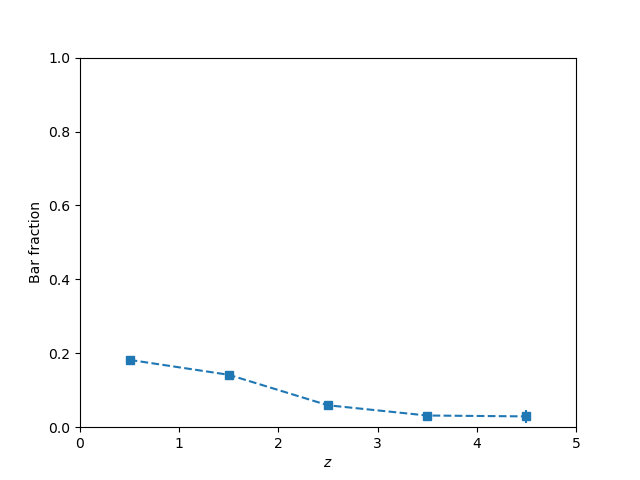
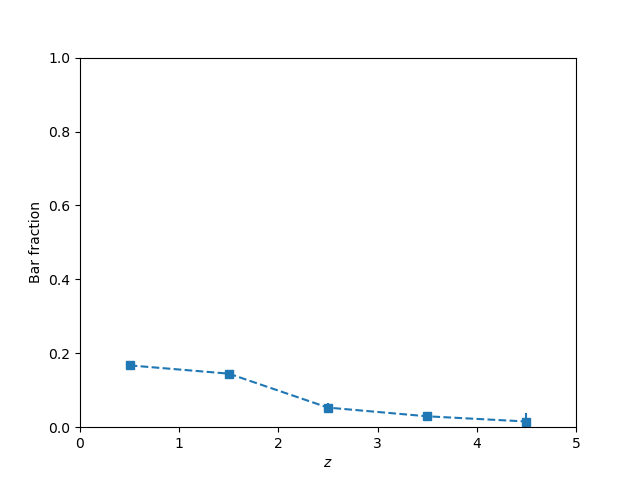
update

Changed region(s): [[0.4375, 0.8125, 0.8438, 0.9062], [0.1875, 0.7188, 0.4062, 0.8125]]

diff --git a/bar_estimate/binned_bar_fraction.py b/bar_estimate/binned_bar_fraction.py
@@ -30,73 +30,172 @@ bar_count = result['bar_count'].values
 
 z50 = result['zfit_50'].values
 M50 = result['logM_50'].values
+q = result['q'].values
 
-num_disks = np.zeros((N_BINS_z, N_RUNS))
-num_barred_disks = np.zeros((N_BINS_z, N_RUNS))
 
-for i in range(len(result)):
-    for j in range(N_BINS_z):
-        if (z50[i] >= bins_z[j]) & (z50[i] < bins_z[j+1]):
-            feature = str2array(feature_count[i])
-            edgeon = str2array(edgeon_count[i])
-            bar = str2array(bar_count[i])
+feature_thresholds = [0.2, 0.3, 0.4]
+bar_thresholds = [0.4, 0.5, 0.6]
 
-            is_disk = (feature >= 0.3*N_VOLS) & (edgeon <= 0.5*feature)
-            num_disks[j,:] += is_disk.astype(int)
 
-            is_barred_disk = is_disk & (bar >= 0.5*(feature-edgeon))
-            num_barred_disks[j,:] += is_barred_disk.astype(int)
-        
-            break
+
+# different p_feature, binned by z
+num_disks = np.zeros((3, N_BINS_z, N_RUNS))
+num_barred_disks = np.zeros((3, N_BINS_z, N_RUNS))
+
+for k in range(3):
+    for i in range(len(result)):
+        for j in range(N_BINS_z):
+            if (z50[i] >= bins_z[j]) & (z50[i] < bins_z[j+1]):
+                feature = str2array(feature_count[i])
+                edgeon = str2array(edgeon_count[i])
+                bar = str2array(bar_count[i])
+
+                # is_disk = (feature >= 0.3*N_VOLS) & (edgeon <= 0.5*feature) & (q[i] >= 0.5)
+                is_disk = (feature >= feature_thresholds[k]*N_VOLS) & (feature-edgeon >= 15) & (q[i] >= 0.5)
+                num_disks[k,j,:] += is_disk.astype(int)
+
+                is_barred_disk = is_disk & (bar >= 0.5*(feature-edgeon))
+                num_barred_disks[k,j,:] += is_barred_disk.astype(int)
+            
+                break
 
 bar_fraction = num_barred_disks / num_disks
-print(np.sum(bar_fraction*(1-bar_fraction)/num_disks, axis=1)/N_RUNS, np.var(bar_fraction, axis=1))
-err = np.sqrt(np.sum(bar_fraction*(1-bar_fraction)/num_disks, axis=1)/N_RUNS + np.var(bar_fraction, axis=1))
+err = np.sqrt(np.sum(bar_fraction*(1-bar_fraction)/num_disks, axis=2)/N_RUNS + np.var(bar_fraction, axis=2))
 
 bin_centers = [(bins_z[i] + bins_z[i+1]) / 2 for i in range(N_BINS_z)]
 
 # plt.plot(bin_centers, np.mean(bar_fraction, axis=1), linestyle='-')
 # plt.scatter(bin_centers, np.mean(bar_fraction, axis=1), marker='s')
 plt.figure()
-plt.errorbar(bin_centers, np.mean(bar_fraction, axis=1), yerr=np.std(bar_fraction, axis=1), fmt='--s')
+for k in range(3):
+    plt.errorbar(bin_centers, np.mean(bar_fraction[k,:,:], axis=1), yerr=err[k,:], 
+                 fmt='--s', capsize = 5, 
+                 label=r'$p_\mathrm{feature}\geq%.1f$'%feature_thresholds[k])
 plt.xticks(bins_z)
 plt.xlabel(r"$z$")
 plt.ylabel("Bar fraction")
-plt.ylim((0,1.))
-plt.savefig('bar_estimate/f_bar_z.png')
+plt.ylim((0, 0.5))
+plt.legend(loc='upper left')
+plt.savefig('bar_estimate/f_bar_z_p_feature.png')
 
 
 
-num_disks = np.zeros((N_BINS_M, N_RUNS))
-num_barred_disks = np.zeros((N_BINS_M, N_RUNS))
+# different p_bar, binned by z
+num_disks = np.zeros((3, N_BINS_z, N_RUNS))
+num_barred_disks = np.zeros((3, N_BINS_z, N_RUNS))
 
-for i in range(len(result)):
-    for j in range(N_BINS_M):
-        if (M50[i] >= bins_M[j]) & (M50[i] < bins_M[j+1]):
-            feature = str2array(feature_count[i])
-            edgeon = str2array(edgeon_count[i])
-            bar = str2array(bar_count[i])
+for k in range(3):
+    for i in range(len(result)):
+        for j in range(N_BINS_z):
+            if (z50[i] >= bins_z[j]) & (z50[i] < bins_z[j+1]):
+                feature = str2array(feature_count[i])
+                edgeon = str2array(edgeon_count[i])
+                bar = str2array(bar_count[i])
 
-            is_disk = (feature >= 0.3*N_VOLS) & (edgeon <= 0.5*feature)
-            num_disks[j,:] += is_disk.astype(int)
+                # is_disk = (feature >= 0.3*N_VOLS) & (edgeon <= 0.5*feature) & (q[i] >= 0.5)
+                is_disk = (feature >= 0.3*N_VOLS) & (feature-edgeon >= 15) & (q[i] >= 0.5)
+                num_disks[k,j,:] += is_disk.astype(int)
 
-            is_barred_disk = is_disk & (bar >= 0.5*(feature-edgeon))
-            num_barred_disks[j,:] += is_barred_disk.astype(int)
-        
-            break
+                is_barred_disk = is_disk & (bar >= bar_thresholds[k]*(feature-edgeon))
+                num_barred_disks[k,j,:] += is_barred_disk.astype(int)
+            
+                break
 
 bar_fraction = num_barred_disks / num_disks
-print(np.sum(bar_fraction*(1-bar_fraction)/num_disks, axis=1)/N_RUNS, np.var(bar_fraction, axis=1))
-err = np.sqrt(np.sum(bar_fraction*(1-bar_fraction)/num_disks, axis=1)/N_RUNS + np.var(bar_fraction, axis=1))
+err = np.sqrt(np.sum(bar_fraction*(1-bar_fraction)/num_disks, axis=2)/N_RUNS + np.var(bar_fraction, axis=2))
 
-bin_centers = [(bins_M[i] + bins_M[i+1]) / 2 for i in range(N_BINS_M)]
+bin_centers = [(bins_z[i] + bins_z[i+1]) / 2 for i in range(N_BINS_z)]
 
 # plt.plot(bin_centers, np.mean(bar_fraction, axis=1), linestyle='-')
 # plt.scatter(bin_centers, np.mean(bar_fraction, axis=1), marker='s')
 plt.figure()
-plt.errorbar(bin_centers, np.mean(bar_fraction, axis=1), yerr=err, fmt='--s')
+for k in range(3):
+    plt.errorbar(bin_centers, np.mean(bar_fraction[k,:,:], axis=1), yerr=err[k,:], 
+                 fmt='--s', capsize = 5, 
+                 label=r'$p_\mathrm{bar}\geq%.1f$'%bar_thresholds[k])
+plt.xticks(bins_z)
+plt.xlabel(r"$z$")
+plt.ylabel("Bar fraction")
+plt.ylim((0, 0.5))
+plt.legend(loc='upper left')
+plt.savefig('bar_estimate/f_bar_z_p_bar.png')
+
+
+
+# different p_feature, binned by M
+num_disks = np.zeros((3, N_BINS_M, N_RUNS))
+num_barred_disks = np.zeros((3, N_BINS_M, N_RUNS))
+
+for k in range(3):
+    for i in range(len(result)):
+        for j in range(N_BINS_M):
+            if (M50[i] >= bins_M[j]) & (M50[i] < bins_M[j+1]):
+                feature = str2array(feature_count[i])
+                edgeon = str2array(edgeon_count[i])
+                bar = str2array(bar_count[i])
+
+                # is_disk = (feature >= 0.3*N_VOLS) & (edgeon <= 0.5*feature) & (q[i] >= 0.5)
+                is_disk = (feature >= feature_thresholds[k]*N_VOLS) & (feature-edgeon >= 15) & (q[i] >= 0.5)
+                num_disks[k,j,:] += is_disk.astype(int)
+
+                is_barred_disk = is_disk & (bar >= 0.5*(feature-edgeon))
+                num_barred_disks[k,j,:] += is_barred_disk.astype(int)
+            
+                break
+
+bar_fraction = num_barred_disks / num_disks
+err = np.sqrt(np.sum(bar_fraction*(1-bar_fraction)/num_disks, axis=2)/N_RUNS + np.var(bar_fraction, axis=2))
+
+bin_centers = [(bins_M[i] + bins_M[i+1]) / 2 for i in range(N_BINS_M)]
+
+plt.figure()
+for k in range(3):
+    plt.errorbar(bin_centers, np.mean(bar_fraction[k,:,:], axis=1), yerr=err[k,:], 
+                 fmt='--s', capsize = 5, 
+                 label=r'$p_\mathrm{feature}\geq%.1f$'%feature_thresholds[k])
 plt.xticks(bins_M)
 plt.xlabel(r"$\log{M_*/M_\odot}$")
 plt.ylabel("Bar fraction")
-plt.ylim((0,1.))
-plt.savefig('bar_estimate/f_bar_M.png')
+plt.ylim((0, 0.5))
+plt.legend(loc='upper left')
+plt.savefig('bar_estimate/f_bar_M_p_feature.png')
+
+
+
+# different p_bar, binned by M
+num_disks = np.zeros((3, N_BINS_M, N_RUNS))
+num_barred_disks = np.zeros((3, N_BINS_M, N_RUNS))
+
+for k in range(3):
+    for i in range(len(result)):
+        for j in range(N_BINS_M):
+            if (M50[i] >= bins_M[j]) & (M50[i] < bins_M[j+1]):
+                feature = str2array(feature_count[i])
+                edgeon = str2array(edgeon_count[i])
+                bar = str2array(bar_count[i])
+
+                # is_disk = (feature >= 0.3*N_VOLS) & (edgeon <= 0.5*feature) & (q[i] >= 0.5)
+                is_disk = (feature >= 0.3*N_VOLS) & (feature-edgeon >= 15) & (q[i] >= 0.5)
+                num_disks[k,j,:] += is_disk.astype(int)
+
+                is_barred_disk = is_disk & (bar >= bar_thresholds[k]*(feature-edgeon))
+                num_barred_disks[k,j,:] += is_barred_disk.astype(int)
+            
+                break
+
+bar_fraction = num_barred_disks / num_disks
+err = np.sqrt(np.sum(bar_fraction*(1-bar_fraction)/num_disks, axis=2)/N_RUNS + np.var(bar_fraction, axis=2))
+
+bin_centers = [(bins_M[i] + bins_M[i+1]) / 2 for i in range(N_BINS_M)]
+
+plt.figure()
+for k in range(3):
+    plt.errorbar(bin_centers, np.mean(bar_fraction[k,:,:], axis=1), yerr=err[k,:], 
+                 fmt='--s', capsize = 5, 
+                 label=r'$p_\mathrm{bar}\geq%.1f$'%bar_thresholds[k])
+plt.xticks(bins_M)
+plt.xlabel(r"$\log{M_*/M_\odot}$")
+plt.ylabel("Bar fraction")
+plt.ylim((0, 0.5))
+plt.legend(loc='upper left')
+plt.savefig('bar_estimate/f_bar_M_p_bar.png')
